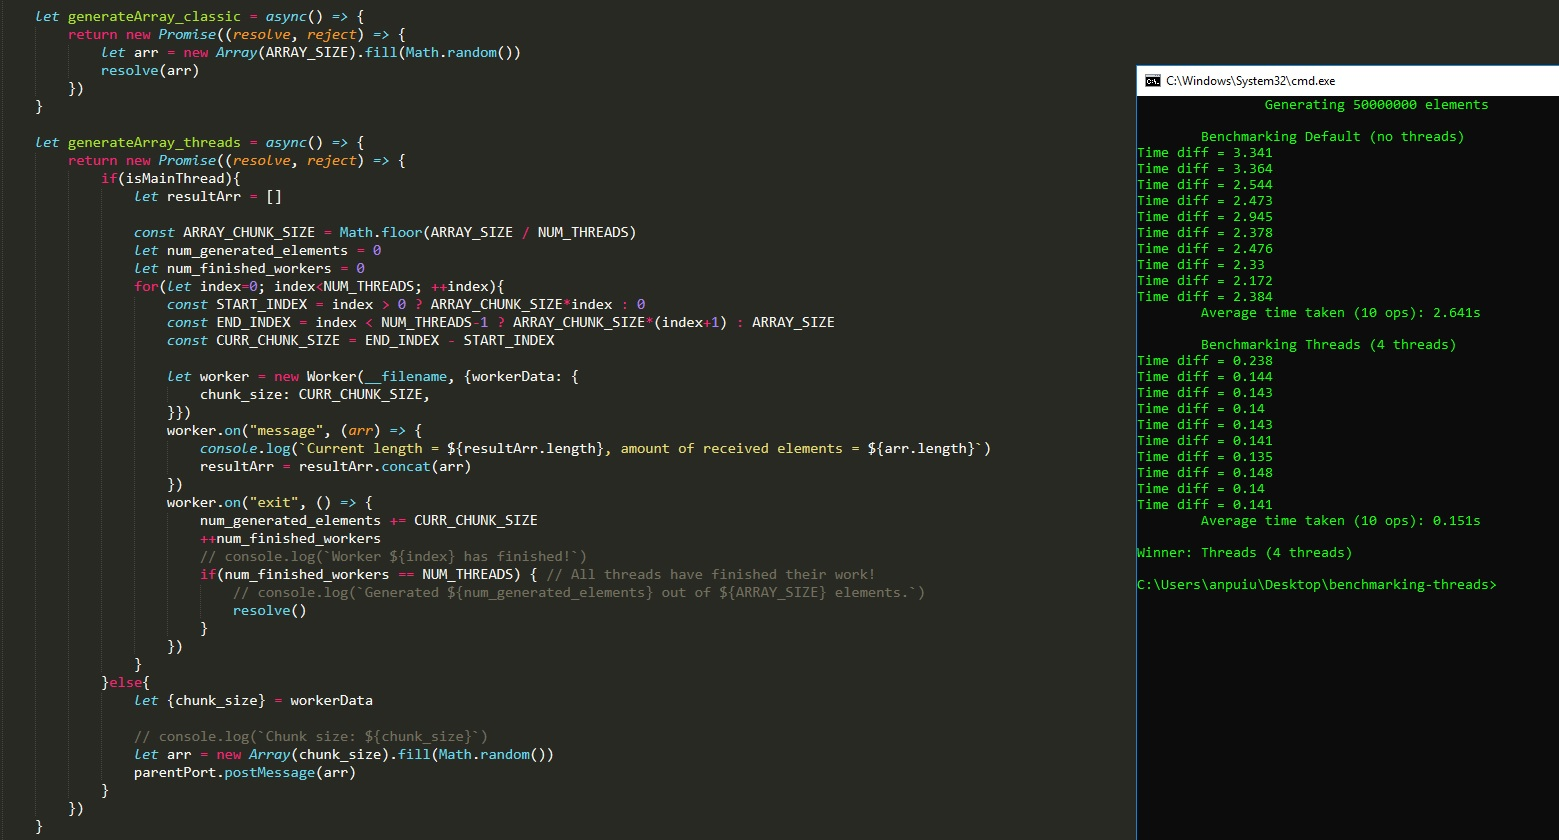
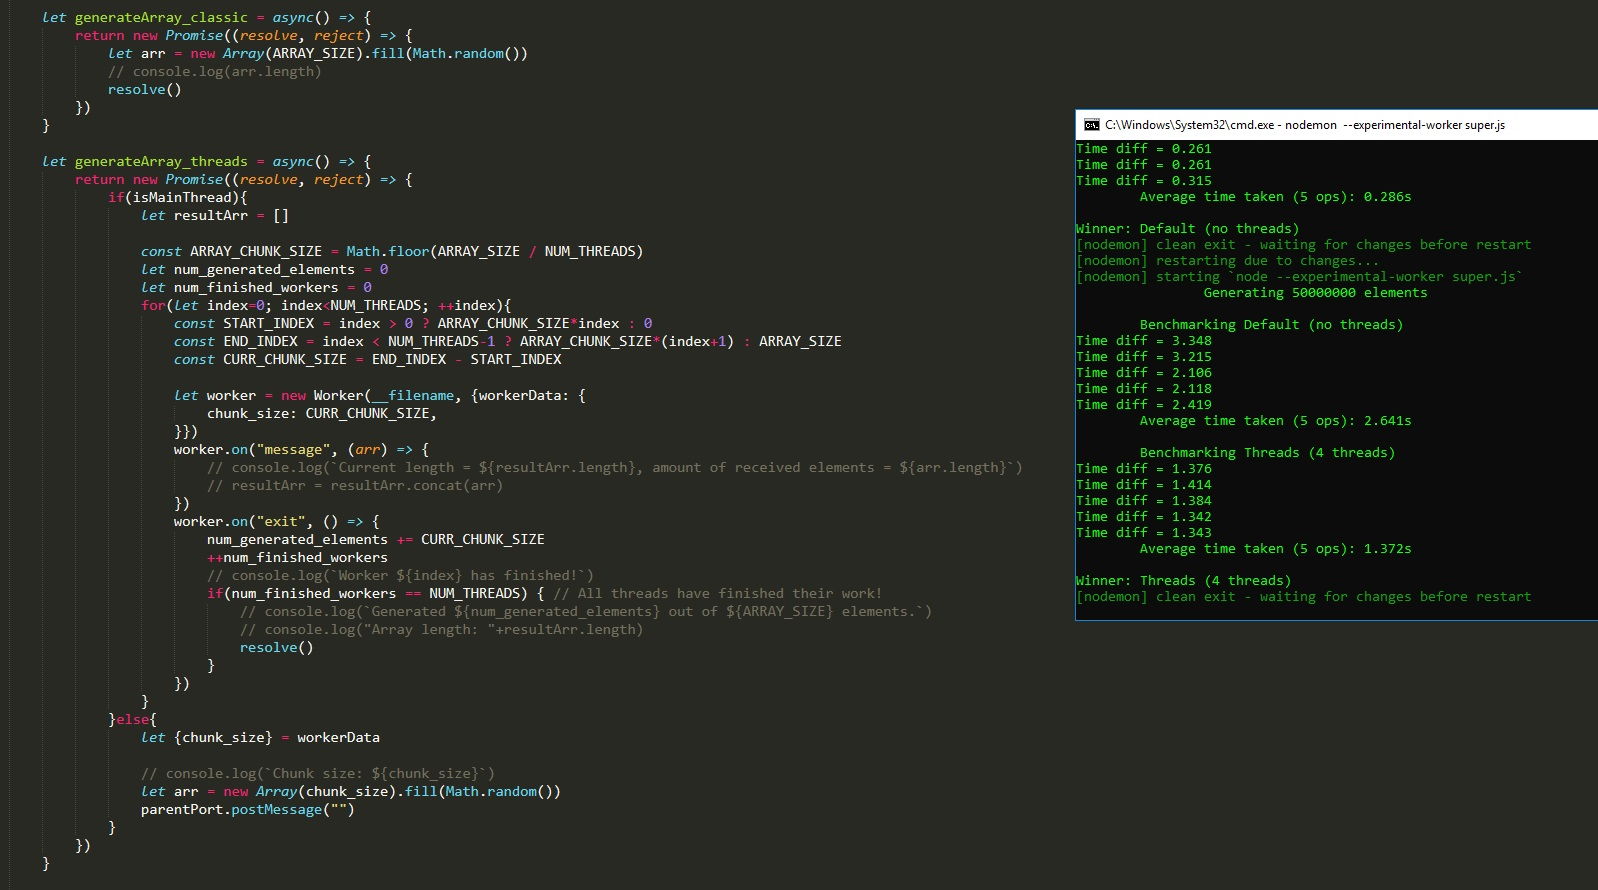
Now the threads actually do work. Fixed them! And... the screenshot too!

diff --git a/super.js b/super.js
@@ -1,23 +1,36 @@
 (async() => {
 	try{
-		let {Worker, isMainThread, workerData, threadId, parentPort} = require("worker_threads")
+			// Config
 		const ARRAY_SIZE = 50000000
-		const NUM_TESTS = 10
+		const NUM_TESTS = 5
 		const NUM_THREADS = 4
+
+			// Init
+		const NO_THREADS = "Default (no threads)"
+		const WITH_THREADS = "Threads (4 threads)"
+
+			// Require
+		let {Worker, isMainThread, workerData, threadId, parentPort} = require("worker_threads")
+
+		let log = (msg) => {
+			if(isMainThread)
+				console.log(msg)
+		}
 
 		let benchmark = async({fn, name, num_tests = 1}) => {
 			let AVG_TIME = 0
-			console.log(`	Benchmarking ${name}`)
+			log(`	Benchmarking ${name}`)
 			for(let num_test = 0; num_test < num_tests; ++num_test){
 				const TIME_START = new Date()
-				await fn()
+				if(name == WITH_THREADS || (name == NO_THREADS && isMainThread))
+					await fn()
 				const TIME_END = new Date()
 				const TIME_DIFF = (TIME_END - TIME_START)/1000
-				console.log(`Time diff = ${TIME_DIFF}`)
+				log(`Time diff = ${TIME_DIFF}`)
 				AVG_TIME += TIME_DIFF / num_tests
 			}
 			AVG_TIME = AVG_TIME.toFixed(3)
-			console.log(`	Average time taken (${num_tests} ops): ${AVG_TIME}s\n`)
+			log(`	Average time taken (${num_tests} ops): ${AVG_TIME}s\n`)
 
 			return {name, average_time: AVG_TIME}
 		}
@@ -25,7 +38,8 @@
 		let generateArray_classic = async() => {
 			return new Promise((resolve, reject) => {
 				let arr = new Array(ARRAY_SIZE).fill(Math.random())
-				resolve(arr)
+				// console.log(arr.length)
+				resolve()
 			})
 		}
 
@@ -46,8 +60,8 @@
 							chunk_size: CURR_CHUNK_SIZE,
 						}})
 						worker.on("message", (arr) => {
-							console.log(`Current length = ${resultArr.length}, amount of received elements = ${arr.length}`)
-							resultArr = resultArr.concat(arr)
+							// console.log(`Current length = ${resultArr.length}, amount of received elements = ${arr.length}`)
+							// resultArr = resultArr.concat(arr)
 						})
 						worker.on("exit", () => {
 							num_generated_elements += CURR_CHUNK_SIZE
@@ -55,6 +69,7 @@
 							// console.log(`Worker ${index} has finished!`)
 							if(num_finished_workers == NUM_THREADS) { // All threads have finished their work!
 								// console.log(`Generated ${num_generated_elements} out of ${ARRAY_SIZE} elements.`)
+								// console.log("Array length: "+resultArr.length)
 								resolve()
 							}
 						})
@@ -64,19 +79,21 @@
 
 					// console.log(`Chunk size: ${chunk_size}`)
 					let arr = new Array(chunk_size).fill(Math.random())
-					parentPort.postMessage(arr)
+					parentPort.postMessage("")
 				}
 			})
 		}
 
+		let benchmarks = []
 		if(isMainThread){
-			let benchmarks = []
 			console.log(`		Generating ${ARRAY_SIZE} elements\n`)
-			benchmarks.push(await benchmark({fn: generateArray_classic, num_tests: NUM_TESTS, name: "Default (no threads)"}))
-			benchmarks.push(await benchmark({fn: generateArray_threads, num_tests: NUM_TESTS, name: "Threads (4 threads)"}))
-			benchmarks = benchmarks.sort((a, b) => a.average_time < b.average_time ? -1 : 1)
-			console.log(`Winner: ${benchmarks[0].name}`)
+			benchmarks.push(await benchmark({fn: generateArray_classic, num_tests: NUM_TESTS, name: NO_THREADS}))
 		}
+		benchmarks.push(await benchmark({fn: generateArray_threads, num_tests: NUM_TESTS, name: WITH_THREADS}))
+		if(isMainThread){
+			benchmarks = benchmarks.sort((a, b) => a.average_time < b.average_time ? -1 : 1)
+		}
+		log(`Winner: ${benchmarks[0].name}`)
 	}catch(e){
 		console.log(e)
 	}
